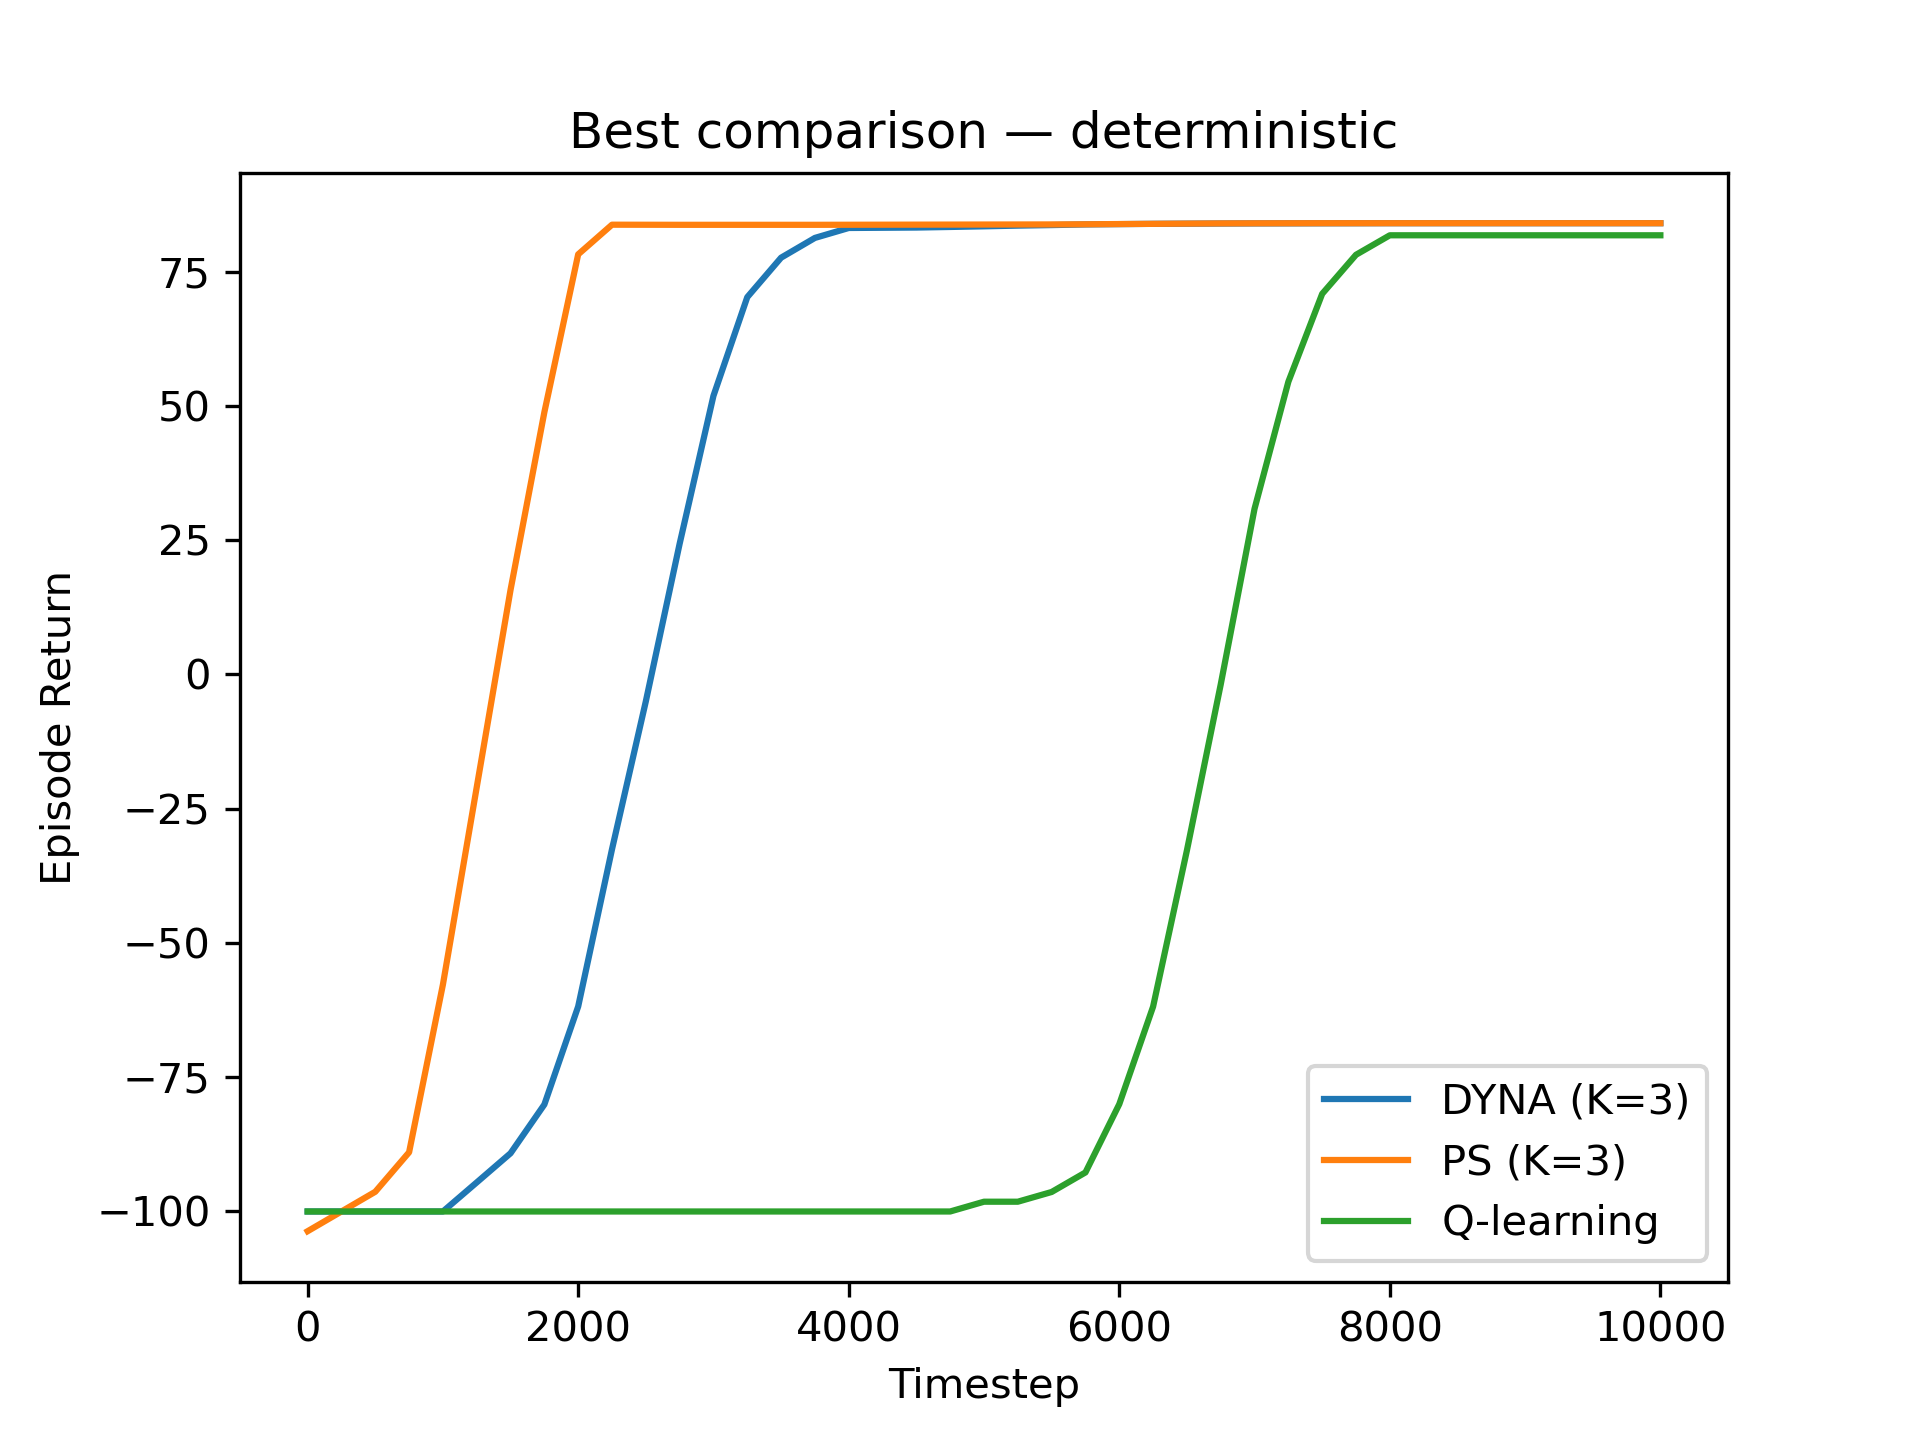
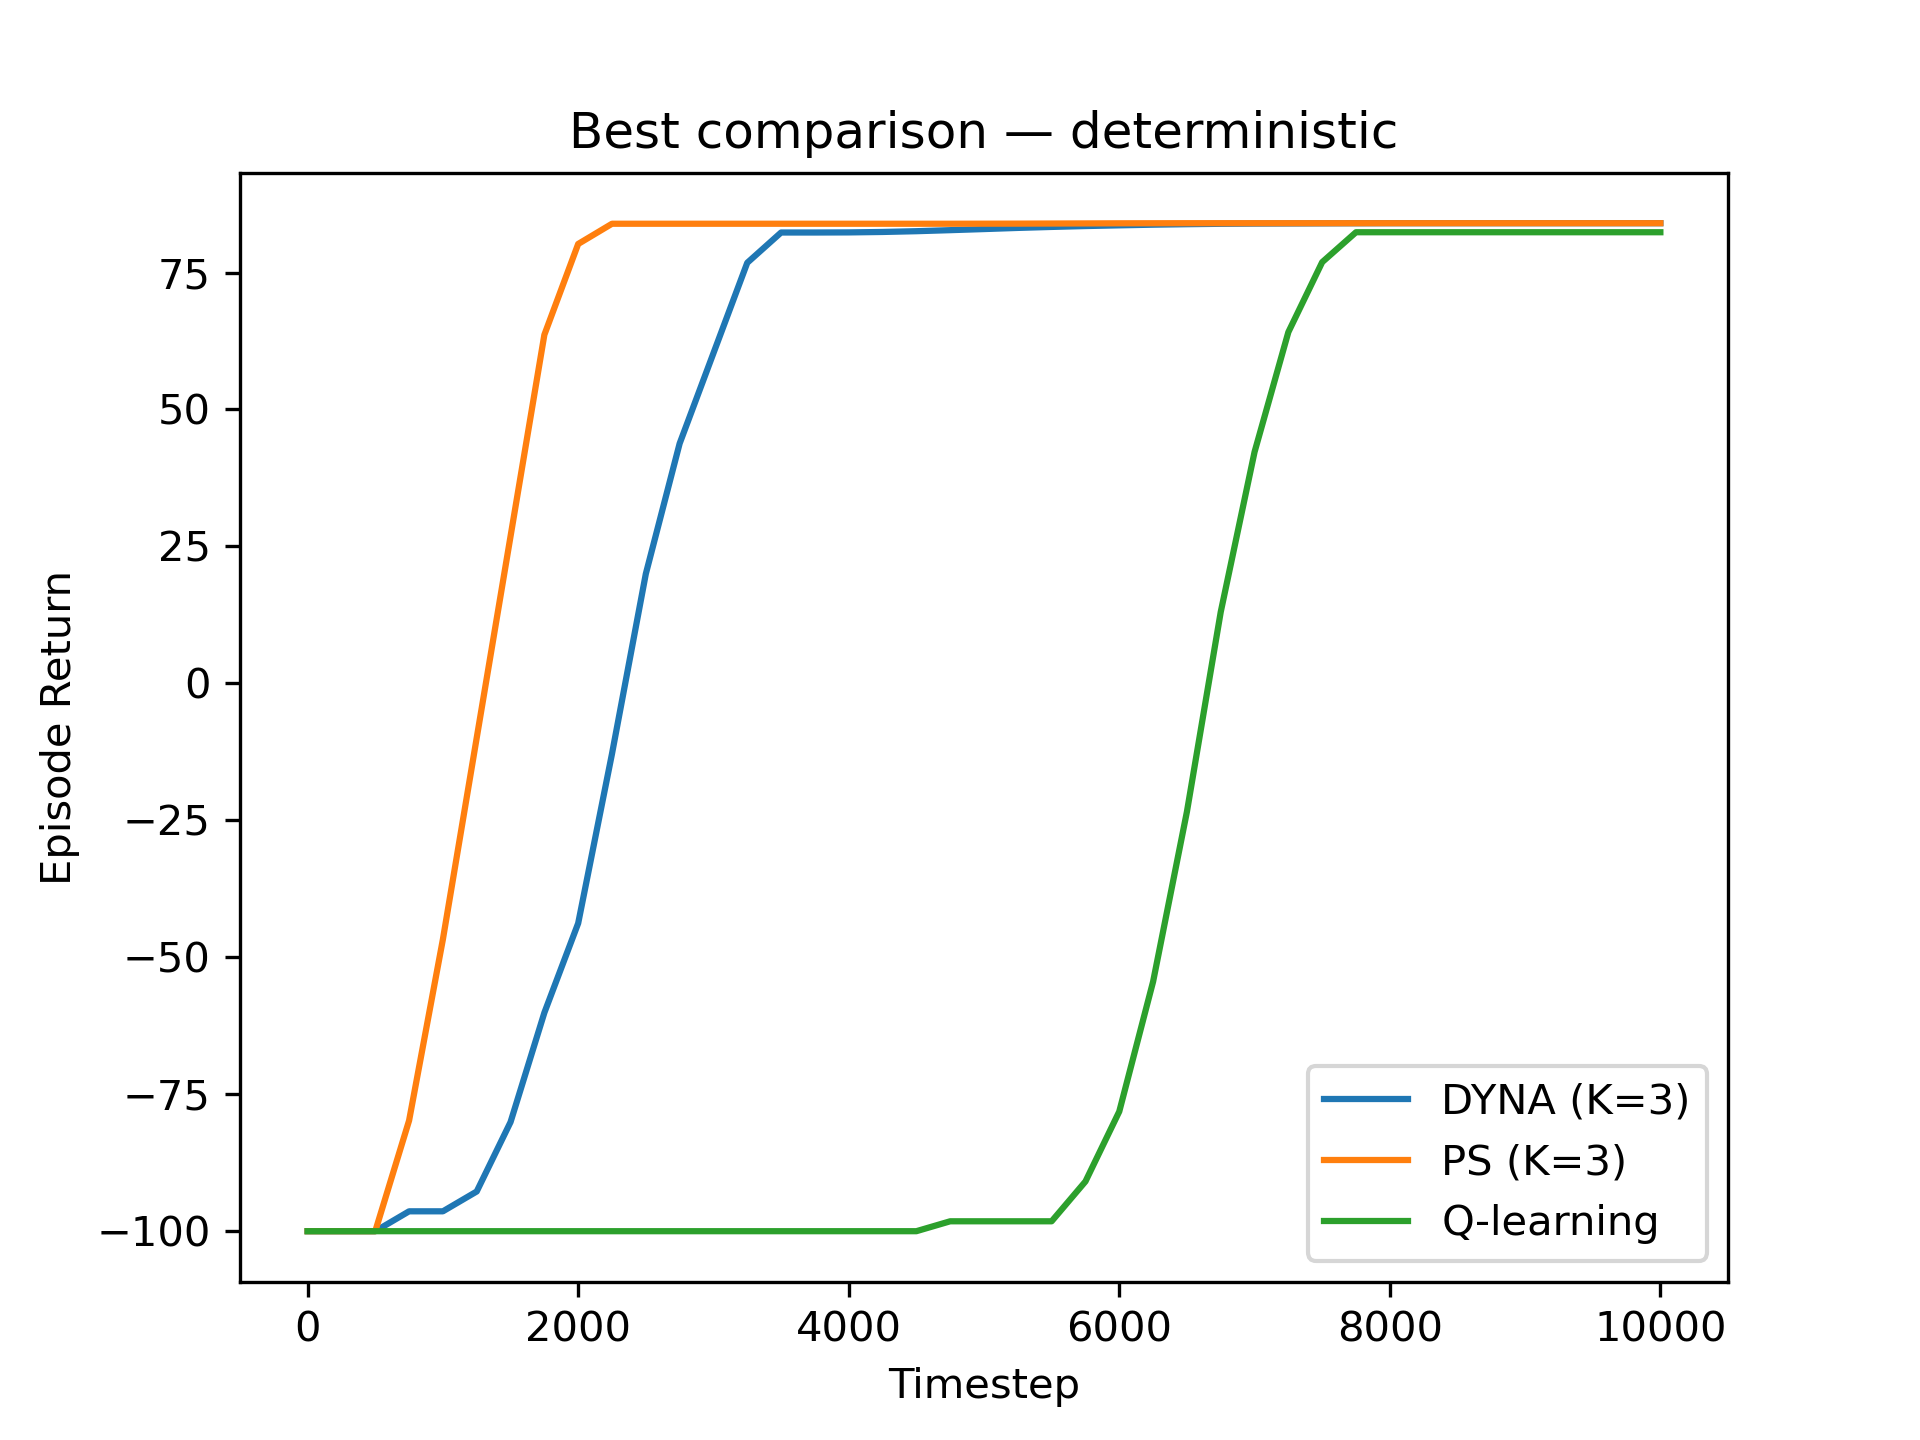
Add files via upload

diff --git a/MBRLExperiment.py b/MBRLExperiment.py
@@ -9,7 +9,7 @@ Bachelor AI, Leiden University, The Netherlands
 from __future__ import annotations
 import numpy as np
 from MBRLEnvironment import WindyGridworld
-from MBRLAgents import DynaAgent, PrioritizedSweepingAgent
+from MBRLAgents import DynaAgent, PrioritizedSweepingAgent, QLearningAgent
 from Helper import LearningCurvePlot, smooth
 import time
 from typing import List, Type, Tuple
@@ -24,13 +24,13 @@ learning_rate = 0.2
 epsilon = 0.1
 smooth_window = 5
 
-planning_list = [0, 1, 3, 5]
+planning_list = [1, 3, 5]
 wind_cases = {
     "stochastic": 0.9,     # wind blows 90 %
     "deterministic": 1.0   # wind always blows → deterministic dynamics
 }
 
-# mapping algorithm name to class
+
 agent_map = {
     "dyna": DynaAgent,
     "ps"  : PrioritizedSweepingAgent,
@@ -63,7 +63,6 @@ def run_repetition(agent_cls: Type, wind: float, n_planning: int) -> List[float]
 
     return curve.tolist()
 
-
 def run_batch(agent_cls: Type, wind: float, n_planning: int) -> Tuple[np.ndarray, float]:
     all_curves = []
     tic = time.time()
@@ -73,11 +72,9 @@ def run_batch(agent_cls: Type, wind: float, n_planning: int) -> Tuple[np.ndarray
     mean_curve = np.mean(all_curves, axis=0)
     return mean_curve, runtime
 
-
 def smoothed(y: np.ndarray) -> np.ndarray:
     window = min(smooth_window, (len(y)//2)*2+1)
     return smooth(y, window)
-
 
 def make_plot(title: str, x: np.ndarray, curves: dict, filename: str):
     plotter = LearningCurvePlot(title=title)
@@ -86,35 +83,37 @@ def make_plot(title: str, x: np.ndarray, curves: dict, filename: str):
     plotter.save(filename)
     print(f"[saved] {filename}")
 
-
-
-# Main experiment 
-
 def experiment():
     steps_axis = np.arange(0, n_timesteps, eval_interval)
     runtime_table = []
-
-    best_curves = {}  # store best performing curve for comparison
+    best_curves = {}
     q_learning_curves = {}
 
+    # Run pure Q-learning baseline
+    for wind_case, wind_prop in wind_cases.items():
+        print(f"Running Q-learning | {wind_case}")
+        q_curve, q_rt = run_batch(QLearningAgent, wind_prop, 0)
+        q_learning_curves[wind_case] = q_curve
+        runtime_table.append(("q", wind_case, 0, q_rt))
+
+    # Run Dyna and PS
     for alg_name, AgentCls in agent_map.items():
         for wind_case, wind_prop in wind_cases.items():
-
             curves = {}
+            # Include K=0 Q-learning in every figure
+            curves["K=0"] = q_learning_curves[wind_case]
+
             best_label, best_curve = None, None
             best_final = -np.inf
 
             for n_plan in planning_list:
-                label = f"K={n_plan}" if n_plan > 0 else "K=0"
+                label = f"K={n_plan}"
                 print(f"Running {alg_name} | {wind_case} | {label} …")
                 mean_curve, avg_rt = run_batch(AgentCls, wind_prop, n_plan)
                 curves[label] = mean_curve
                 runtime_table.append((alg_name, wind_case, n_plan, avg_rt))
 
-                if n_plan == 0 and alg_name == "dyna":
-                    q_learning_curves[wind_case] = mean_curve
-
-                if mean_curve[-1] > best_final and n_plan > 0:
+                if mean_curve[-1] > best_final:
                     best_final = mean_curve[-1]
                     best_label = label
                     best_curve = mean_curve
@@ -125,7 +124,7 @@ def experiment():
             if best_curve is not None:
                 best_curves[(alg_name, wind_case)] = (best_label, best_curve)
 
-    # comparison plots
+    # Comparison plots
     for wind_case in wind_cases.keys():
         comp_curves = {}
         for alg_name in ("dyna", "ps"):
@@ -137,16 +136,16 @@ def experiment():
         fname = f"compare_{wind_case}.png"
         make_plot(f"Best comparison — {wind_case}", steps_axis, comp_curves, fname)
 
-    # runtime table
+    # Runtime table
     print("\nAverage runtime per repetition (s):")
     print("alg\twind\tK\truntime")
     for alg, w, k, rt in runtime_table:
         print(f"{alg}\t{w}\t{k}\t{rt:.3f}")
 
-
-
 if __name__ == "__main__":
     experiment()
+
+
 
 
 

diff --git a/MBRLAgents.py b/MBRLAgents.py
@@ -10,6 +10,41 @@ from queue import PriorityQueue
 from MBRLEnvironment import WindyGridworld
 
 
+class QLearningAgent:
+    def __init__(self, n_states, n_actions, learning_rate, gamma):
+        self.n_states = n_states
+        self.n_actions = n_actions
+        self.alpha = learning_rate
+        self.gamma = gamma
+        self.Q_sa = np.zeros((n_states, n_actions))
+
+    def select_action(self, s, epsilon):
+        if np.random.rand() < epsilon:
+            return np.random.randint(self.n_actions)
+        else:
+            max_q = np.max(self.Q_sa[s])
+            return np.random.choice(np.flatnonzero(self.Q_sa[s] == max_q))
+
+    def update(self, s, a, r, done, s_next, n_planning_updates=0):
+        target = r if done else r + self.gamma * self.Q_sa[s_next].max()
+        self.Q_sa[s, a] += self.alpha * (target - self.Q_sa[s, a])
+
+    def evaluate(self, eval_env: WindyGridworld, n_eval_episodes=30, max_episode_length=100):
+        returns = []
+        for _ in range(n_eval_episodes):
+            s = eval_env.reset()
+            R_ep = 0
+            for _ in range(max_episode_length):
+                a = np.argmax(self.Q_sa[s])
+                s_prime, reward, done = eval_env.step(a)
+                R_ep += reward
+                if done:
+                    break
+                s = s_prime
+            returns.append(R_ep)
+        return float(np.mean(returns))
+    
+    
 class DynaAgent:
 
     def __init__(self, n_states, n_actions, learning_rate, gamma): # epsilon at 1 = random policy
